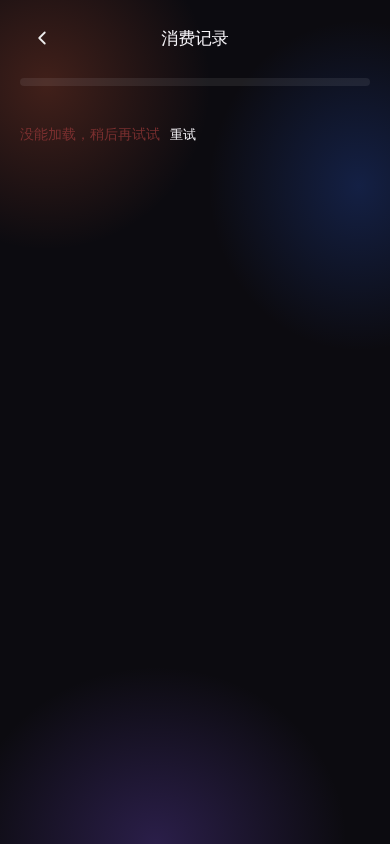
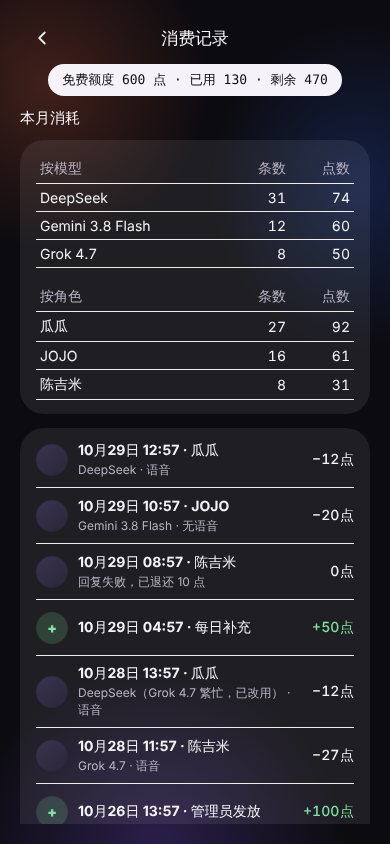
Part 25b fix: billing with real data, guide screenshots
Claude-Session: https://claude.ai/code/session_01Y7wsRjypAj1HJvvcZyGZZa

diff --git a/review/part-25b/tools/capture.ts b/review/part-25b/tools/capture.ts
@@ -1,5 +1,6 @@
 import { join } from 'node:path';
 import { mkdirSync } from 'node:fs';
+import { billingFixture } from './billing-data.ts';
 import { origin, close, loadPlaywright, mails, config } from './fixture.ts';
 
 const out = process.argv[2]!;
@@ -230,6 +231,59 @@ if (only === 'misc') {
     await page.getByRole('button', { name: '输入邀请码' }).click();
     await page.waitForTimeout(700);
     await page.screenshot({ path: join(out, `invite-${scheme}-390.png`) });
+    await ctx.close();
+  }
+}
+
+if (only === 'billing' || only === 'guide') {
+  for (const scheme of SCHEMES) {
+    const [w, h] = [390, 844];
+    const { ctx, page } = await open(w, h, scheme);
+    if (only === 'guide') {
+      await page.mouse.click(w / 2, h * 0.45);
+      await page.waitForSelector('.chat-guide');
+      await page.waitForTimeout(900);
+      await page.screenshot({ path: join(out, `guide-${scheme}-${w}.png`) });
+      await ctx.close();
+      continue;
+    }
+    const email = `bill.${scheme}@example.com`;
+    await page.getByRole('button', { name: /登录\/注册|注册/ }).first().click();
+    await page.waitForTimeout(700);
+    await page.locator('.acct-sheet').getByRole('button', { name: /没有账号/ }).click();
+    await page.getByLabel('邮箱').fill(email);
+    await page.getByRole('button', { name: '发送验证码' }).click();
+    for (let i = 0; i < 100 && !mails.some((m: any) => m.to === email); i++) await new Promise((r) => setTimeout(r, 50));
+    await page.getByLabel('验证码（6 位数字）').fill([...mails].reverse().find((m: any) => m.to === email)!.code!);
+    await page.getByRole('button', { name: '验证', exact: true }).click();
+    const pw = page.locator('input[type=password]');
+    await pw.first().waitFor({ timeout: 15000 });
+    await pw.nth(0).fill(PASSWORD);
+    await pw.nth(1).fill(PASSWORD);
+    await page.getByLabel('昵称').fill('阿泡');
+    await page.getByRole('button', { name: '完成注册' }).click();
+    await page.getByRole('button', { name: /阿泡/ }).first().waitFor({ timeout: 20000 });
+    await page.waitForLoadState('networkidle');
+    await page.route('**/billing/history', (route: any) => route.fulfill({ json: billingFixture() }));
+    await page.route('**/account', async (route: any) => {
+      const res = await route.fetch();
+      const json = await res.json();
+      if (route.request().method() === 'GET' && json.signedIn) {
+        const plan = { kind: 'daily_refill', dailyAmount: 50, cap: 1000, expiresAt: null };
+        json.tier = { kind: 'daily_refill', unlimited: false, plan };
+        json.modelChoice = { models: [{ id: 'deepseek', points: 10, voicePoints: 2 }], selected: 'deepseek', metered: true, balance: 470, repliesLeft: 47, version: 1, plan };
+      }
+      await route.fulfill({ response: res, json });
+    });
+    await page.reload();
+    await page.locator('.card-slot.is-active').waitFor();
+    await page.waitForTimeout(900);
+    await page.getByRole('button', { name: /阿泡/ }).first().click();
+    await page.waitForTimeout(700);
+    await page.getByRole('button', { name: '消费记录' }).click();
+    await page.waitForSelector('.bl-row');
+    await page.waitForTimeout(1000);
+    await page.screenshot({ path: join(out, `billing-${scheme}-${w}.png`) });
     await ctx.close();
   }
 }

diff --git a/review/part-25b/tools/billing-data.ts b/review/part-25b/tools/billing-data.ts
@@ -1,0 +1,39 @@
+import { parseBillingPage, type BillingPage } from '../../../packages/contracts/player-billing.ts';
+const H = 3600_000, D = 24 * H;
+/** A refill player's 消费记录: months by model and by character, replies (voice and not, a backup), a refund, a refill, bonus and grant. */
+export function billingFixture(now = Date.now()): BillingPage {
+  const page: BillingPage = {
+    metered: true,
+    balance: 470,
+    quota: { total: 600, used: 130 },
+    trial: null,
+    month: {
+      byModel: [
+        { model: 'deepseek', points: 74, replies: 31 },
+        { model: 'gemini', points: 60, replies: 12 },
+        { model: 'xai', points: 50, replies: 8 },
+      ],
+      byCharacter: [
+        { characterId: 'wei-guagua', points: 92, replies: 27 },
+        { characterId: 'jojo', points: 61, replies: 16 },
+        { characterId: 'chen-jimi', points: 31, replies: 8 },
+      ],
+    },
+    items: [
+      { kind: 'reply', at: now - 1 * H, characterId: 'wei-guagua', model: 'deepseek', voice: true, points: 12, free: false },
+      { kind: 'reply', at: now - 3 * H, characterId: 'jojo', model: 'gemini', voice: false, points: 20, free: false },
+      { kind: 'failed', at: now - 5 * H, characterId: 'chen-jimi', refunded: 10, free: false },
+      { kind: 'daily_refill', at: now - 9 * H, points: 50 },
+      { kind: 'reply', at: now - 1 * D, characterId: 'wei-guagua', model: 'deepseek', backupFor: 'xai', voice: true, points: 12, free: false },
+      { kind: 'reply', at: now - 1 * D - 2 * H, characterId: 'chen-jimi', model: 'xai', voice: true, points: 27, free: false },
+      { kind: 'grant', at: now - 3 * D, points: 100 },
+      { kind: 'reply', at: now - 4 * D, characterId: 'jojo', model: 'deepseek', voice: false, points: 10, free: false },
+      { kind: 'trial', at: now - 8 * D, characterId: 'jojo', model: 'deepseek' },
+      { kind: 'bonus', at: now - 8 * D, points: 30 },
+    ],
+    page: 1,
+    hasMore: false,
+  };
+  if (!parseBillingPage(JSON.parse(JSON.stringify(page)))) throw new Error('billing fixture does not satisfy the contract');
+  return page;
+}

diff --git a/review/part-25b/README.md b/review/part-25b/README.md
@@ -16,7 +16,7 @@ have, the one response is rewritten in the browser (listed below); nothing else 
 | `myinfo-refill-*`, `myinfo-unlimited-*` | 470 点 / 每天 +50 with the bar, and 不限量 (the response of `/account` gets a tier and a model state) | MyInfo |
 | `shared-*` | the shared voice 小卡: 收到一张语音小卡, no nickname, 来聊几句嘛～ (the component, with sample data) | Shared |
 | `signup-*`, `login-*`, `signed-out-*`, `invite-*` | sheets and pages in both themes; the account sheets slide up | — |
-| `model-*`, `cocreate-*`, `after-cocreate-*`, `billing-*` | the model sheet, 共创 and 消费记录 in both themes (390 only; billing's tables are empty in the fixture) | — |
+| `model-*`, `cocreate-*`, `after-cocreate-*`, `billing-*` | the model sheet, 共创 and 消费记录 in both themes (390 only) | — |
 
 Recordings (webm, 390×844): `video/swipe-mobile.webm` (swiping through the stack, both ways, past an empty slot) and
 `video/enter-chat-mobile.webm` (opening a chat: the card grows to fill the screen while the top bar lifts and fades, then back).
@@ -33,3 +33,11 @@ Recordings (webm, 390×844): `video/swipe-mobile.webm` (swiping through the stac
 `pnpm web:player:build`, then from the repository root `node review/part-25b/tools/capture.ts <out> [guest|player|sheets|misc|video]`
 (Playwright from `PLAYWRIGHT_MODULE` or the usual global directories, as in `scripts/check-web-browser.ts`). The shared card:
 bundle `tools/shared-entry.ts` with esbuild to `tools/shared-bundle.js` (iife) and run `tools/shared-snap.ts <out>`.
+
+## Fix round 2 (PR #55 follow-up)
+- `billing-light-390.png`, `billing-dark-390.png` are re-taken with real billing data: `tools/billing-data.ts` builds a `BillingPage`
+  (a month by model and by character, replies with and without voice, a backup reply, a failed reply with its refund, a daily
+  refill, a grant, a trial reply and the signup bonus) and checks it with the contract's own `parseBillingPage`; `capture.ts billing`
+  answers `/billing/history` with it. They render (before, the fixture had nothing for that route and the page said 没能加载).
+- `guide-light-390.png`, `guide-dark-390.png`: the one-time ⋯ guide under the header, and "X已添加了你" waiting below it; both readable.
+- Escape in the model sheet closes only the sheet (test `player-ui-25b`).
